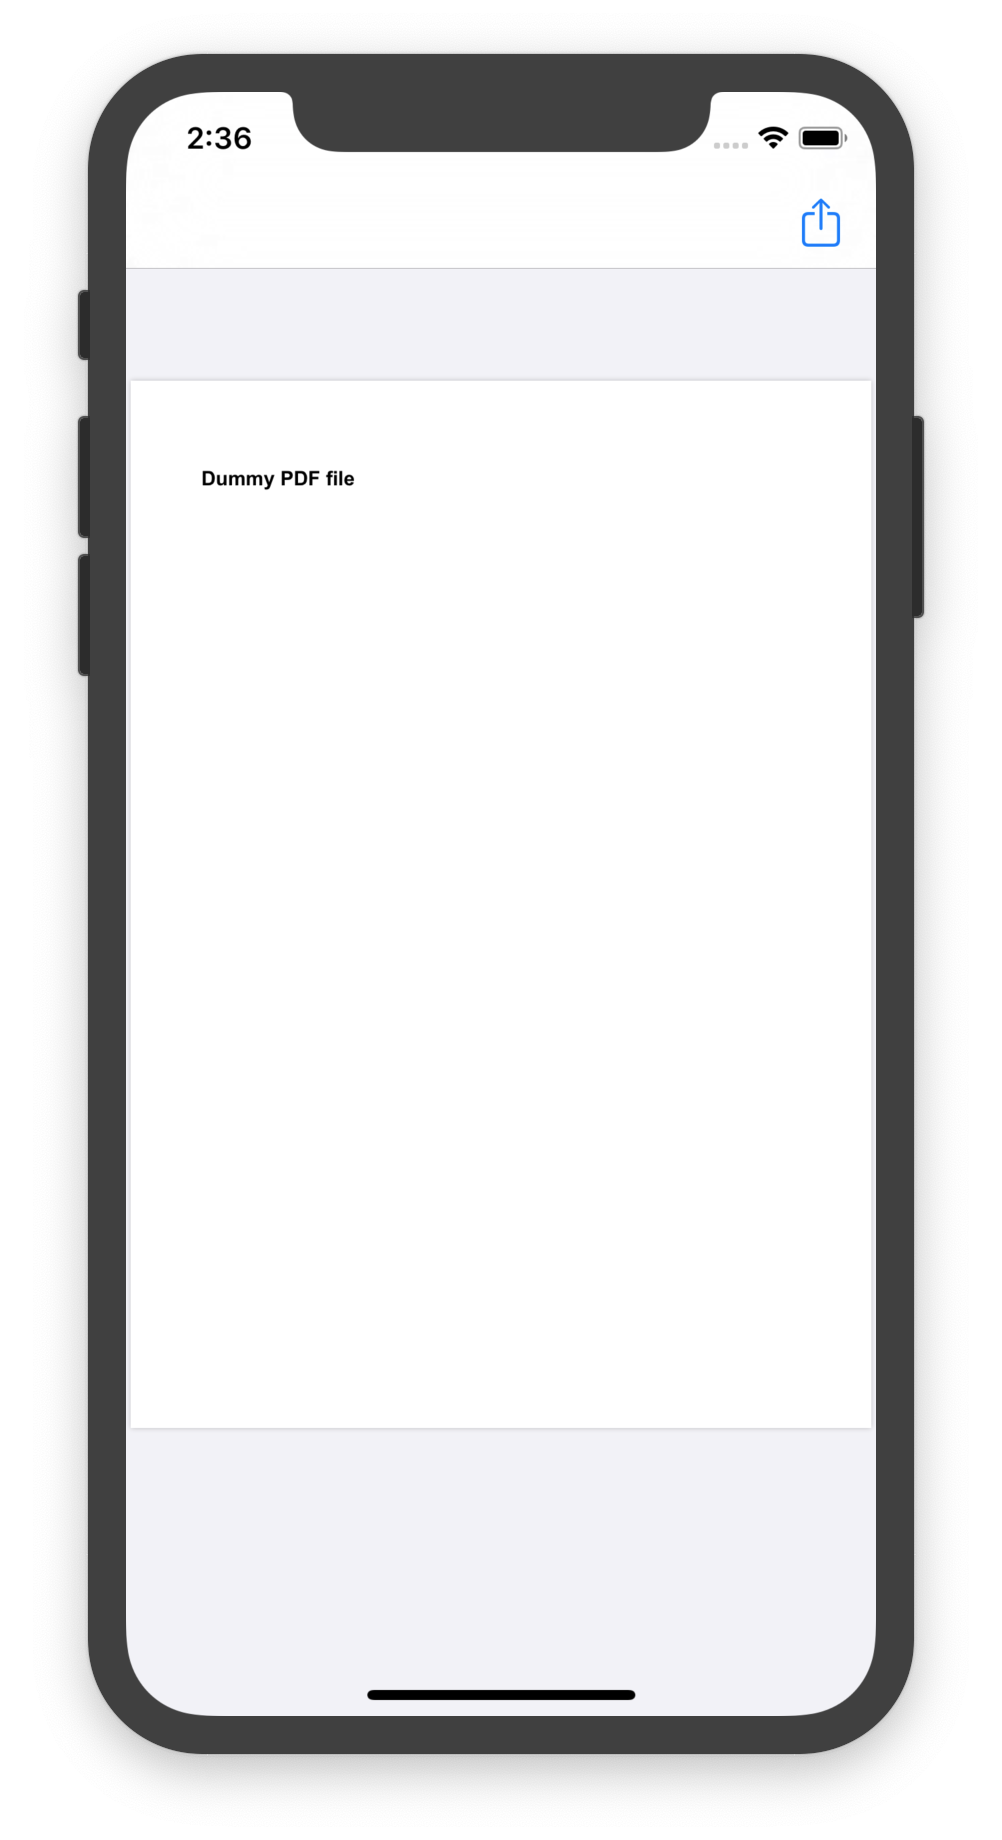
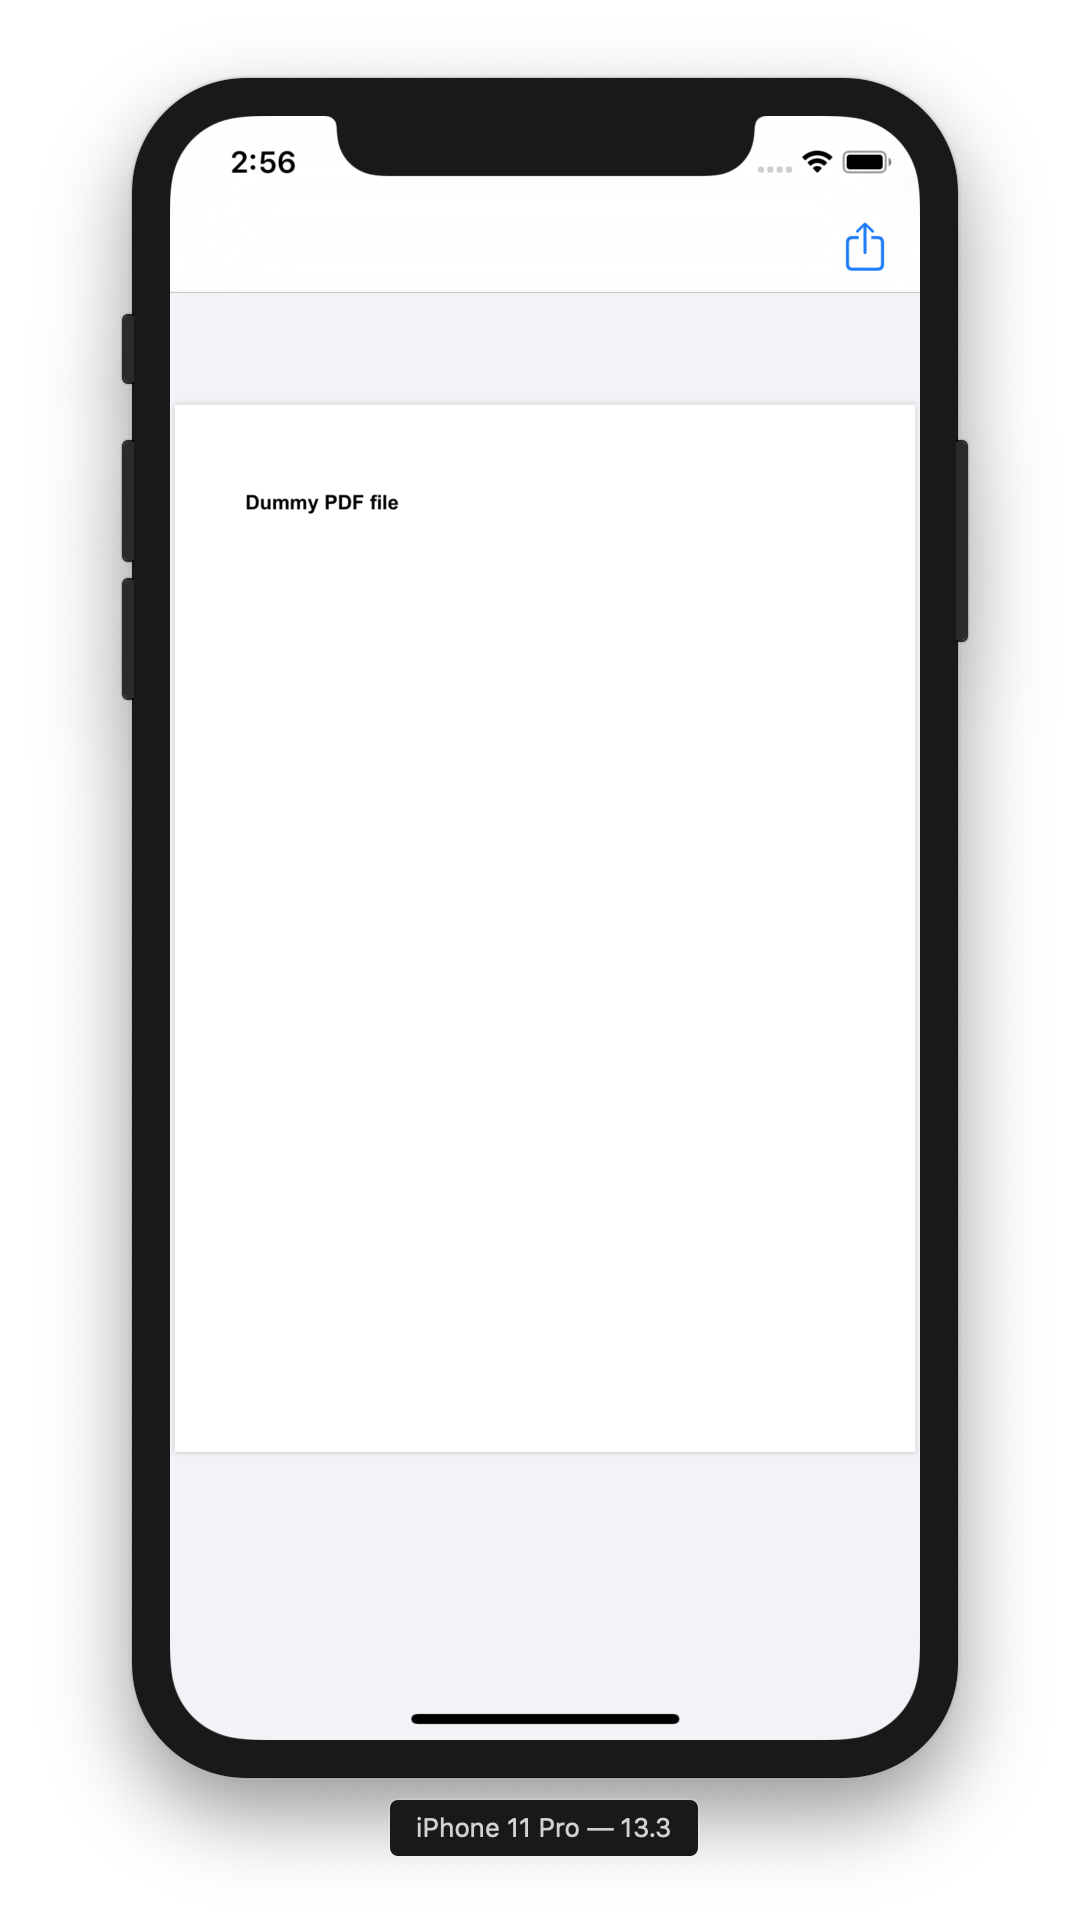
Anzeige der Screenshots in Readme gefixt

Changed region(s): [[0.0619, 0.031, 0.9281, 0.9603], [0.2166, 0.2478, 0.3713, 0.2788]]

diff --git a/README.md b/README.md
@@ -1,5 +1,7 @@
 # iOS-Dummy-PDF-Viewer
 Kleiner iOS PDF-Viewer mit Dummy-PDF, um die Share-Extension von Label Mobile 2.0 zu öffnen (man kann vom iOS Simulator aus keine Apps aus dem App Store laden)
 
-![App](Screenshots/App.png)
-![Share](Screenshots/Share.png)
+<div style="width: 100%">
+  <img width="400" style="float: left;" alt="App Screenshot" src="Screenshots/App.png">
+  <img width="400" style="float: left;" alt="Share Screenshot" src="Screenshots/Share.png">
+</div>
